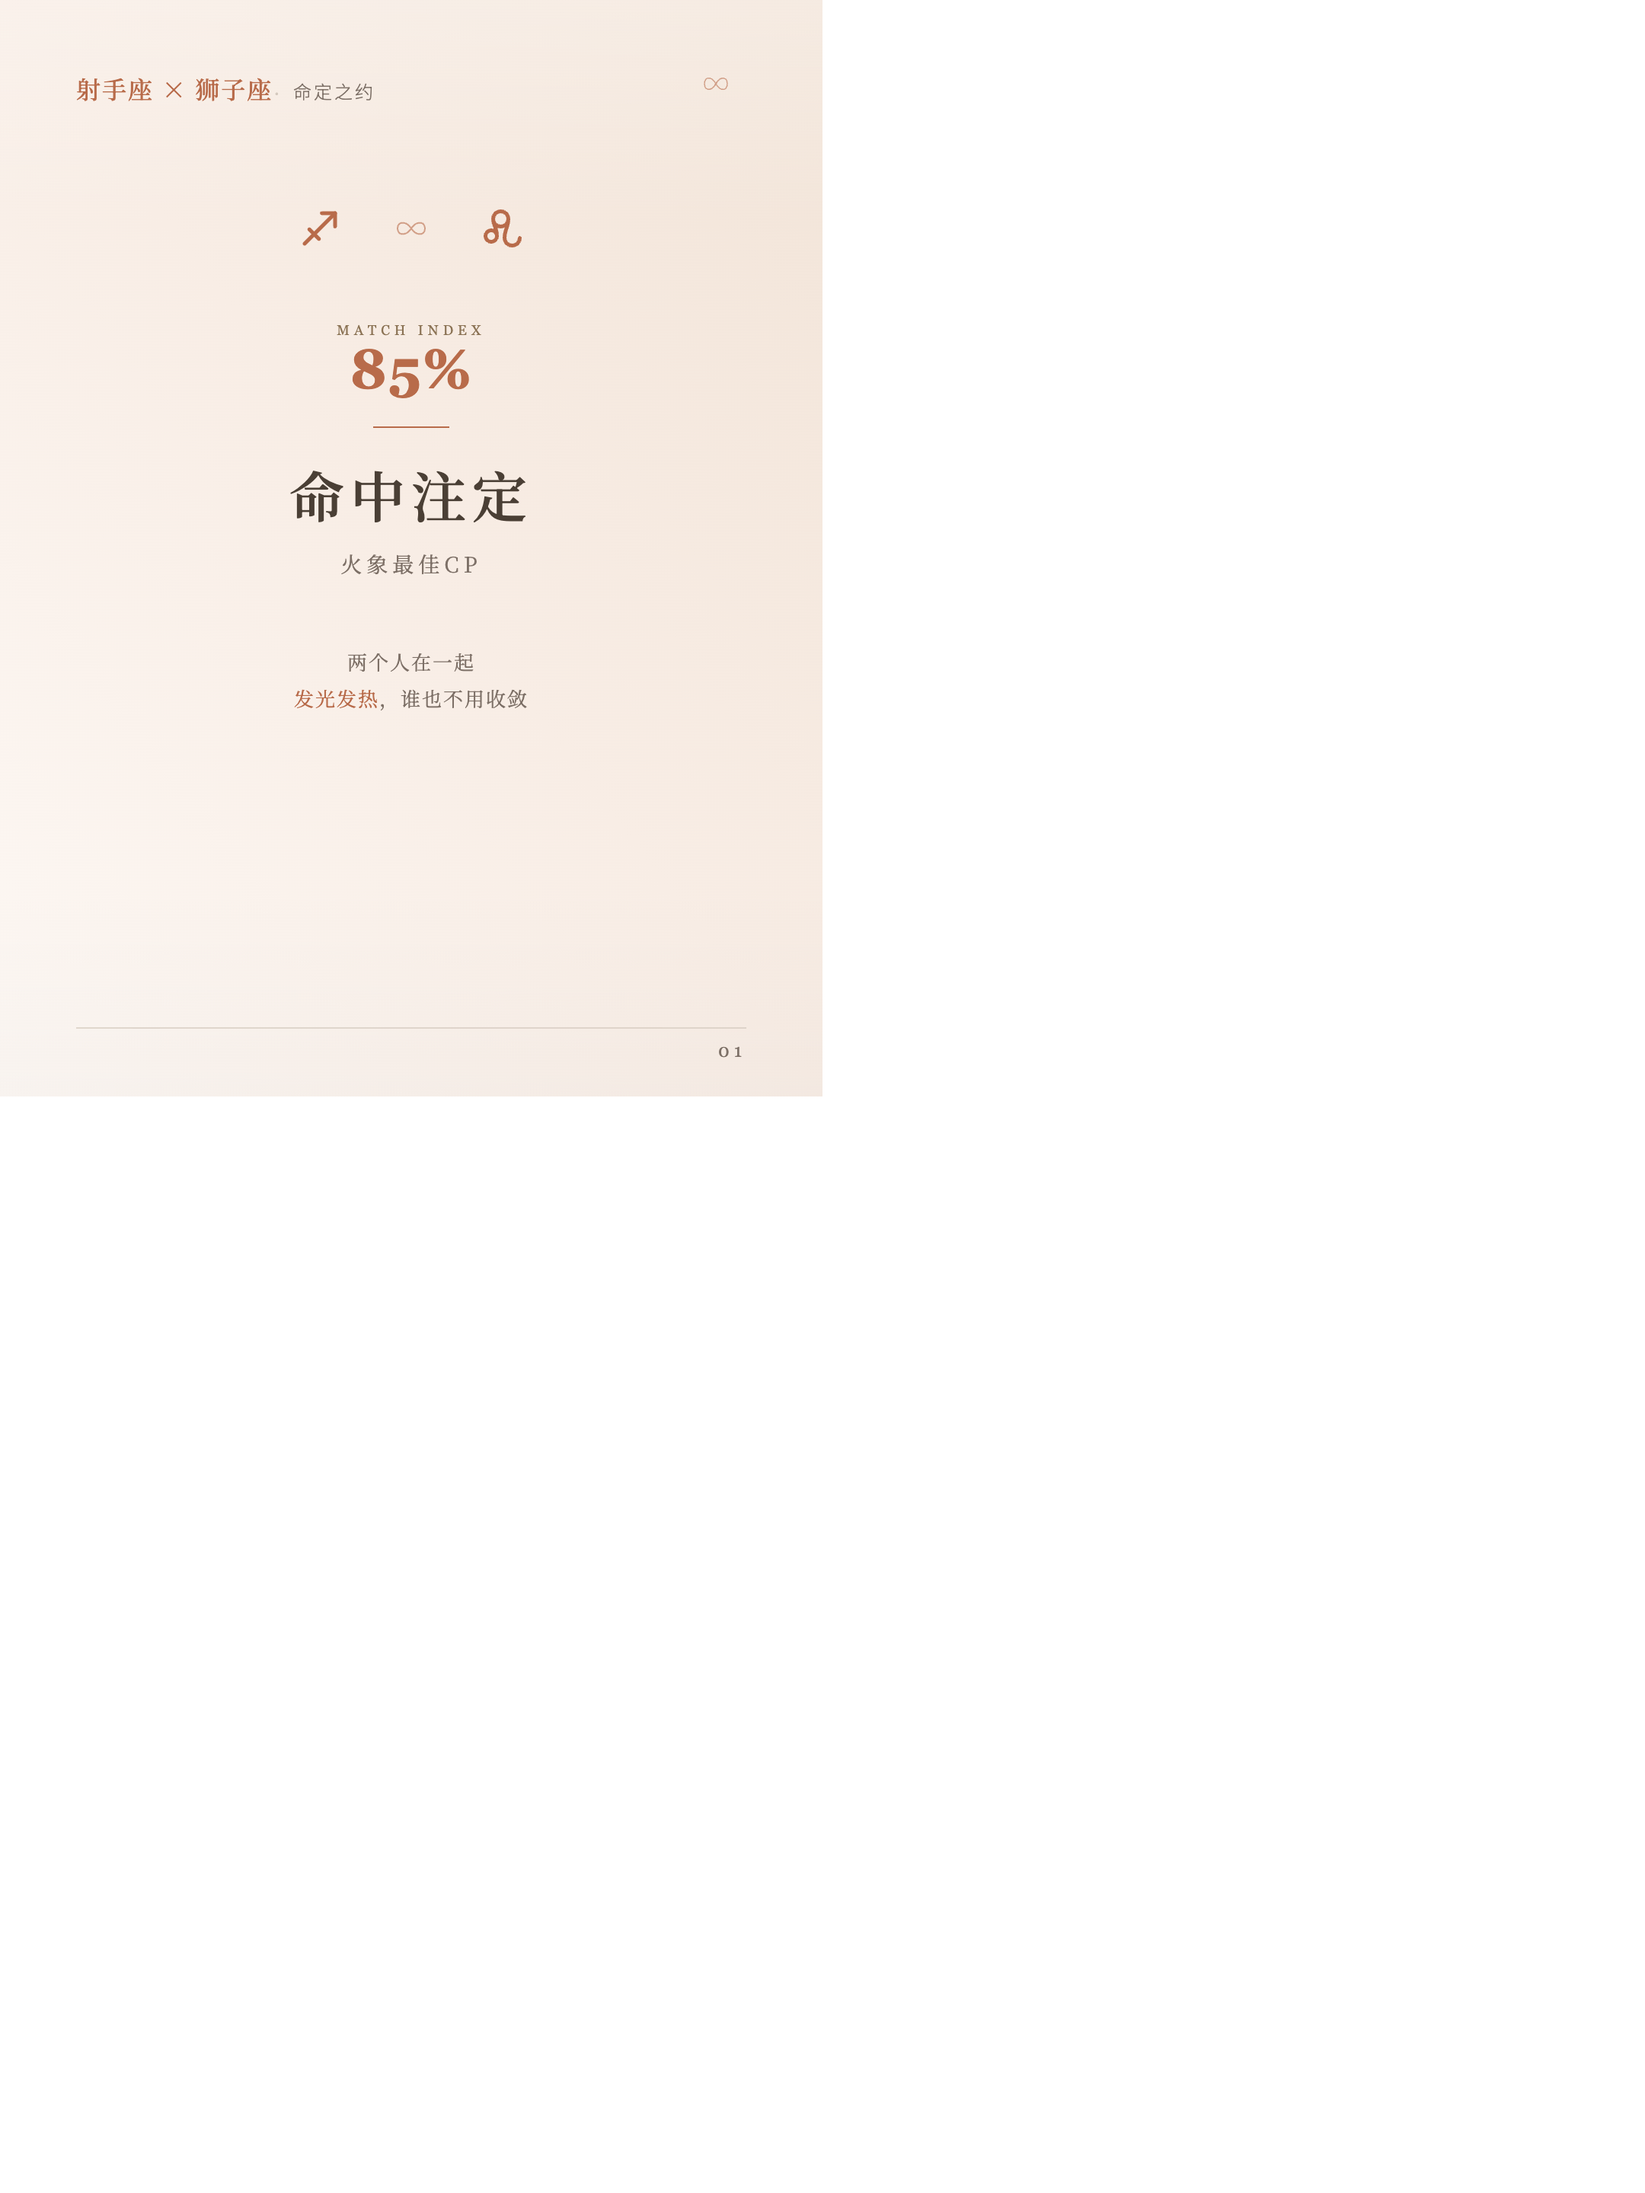
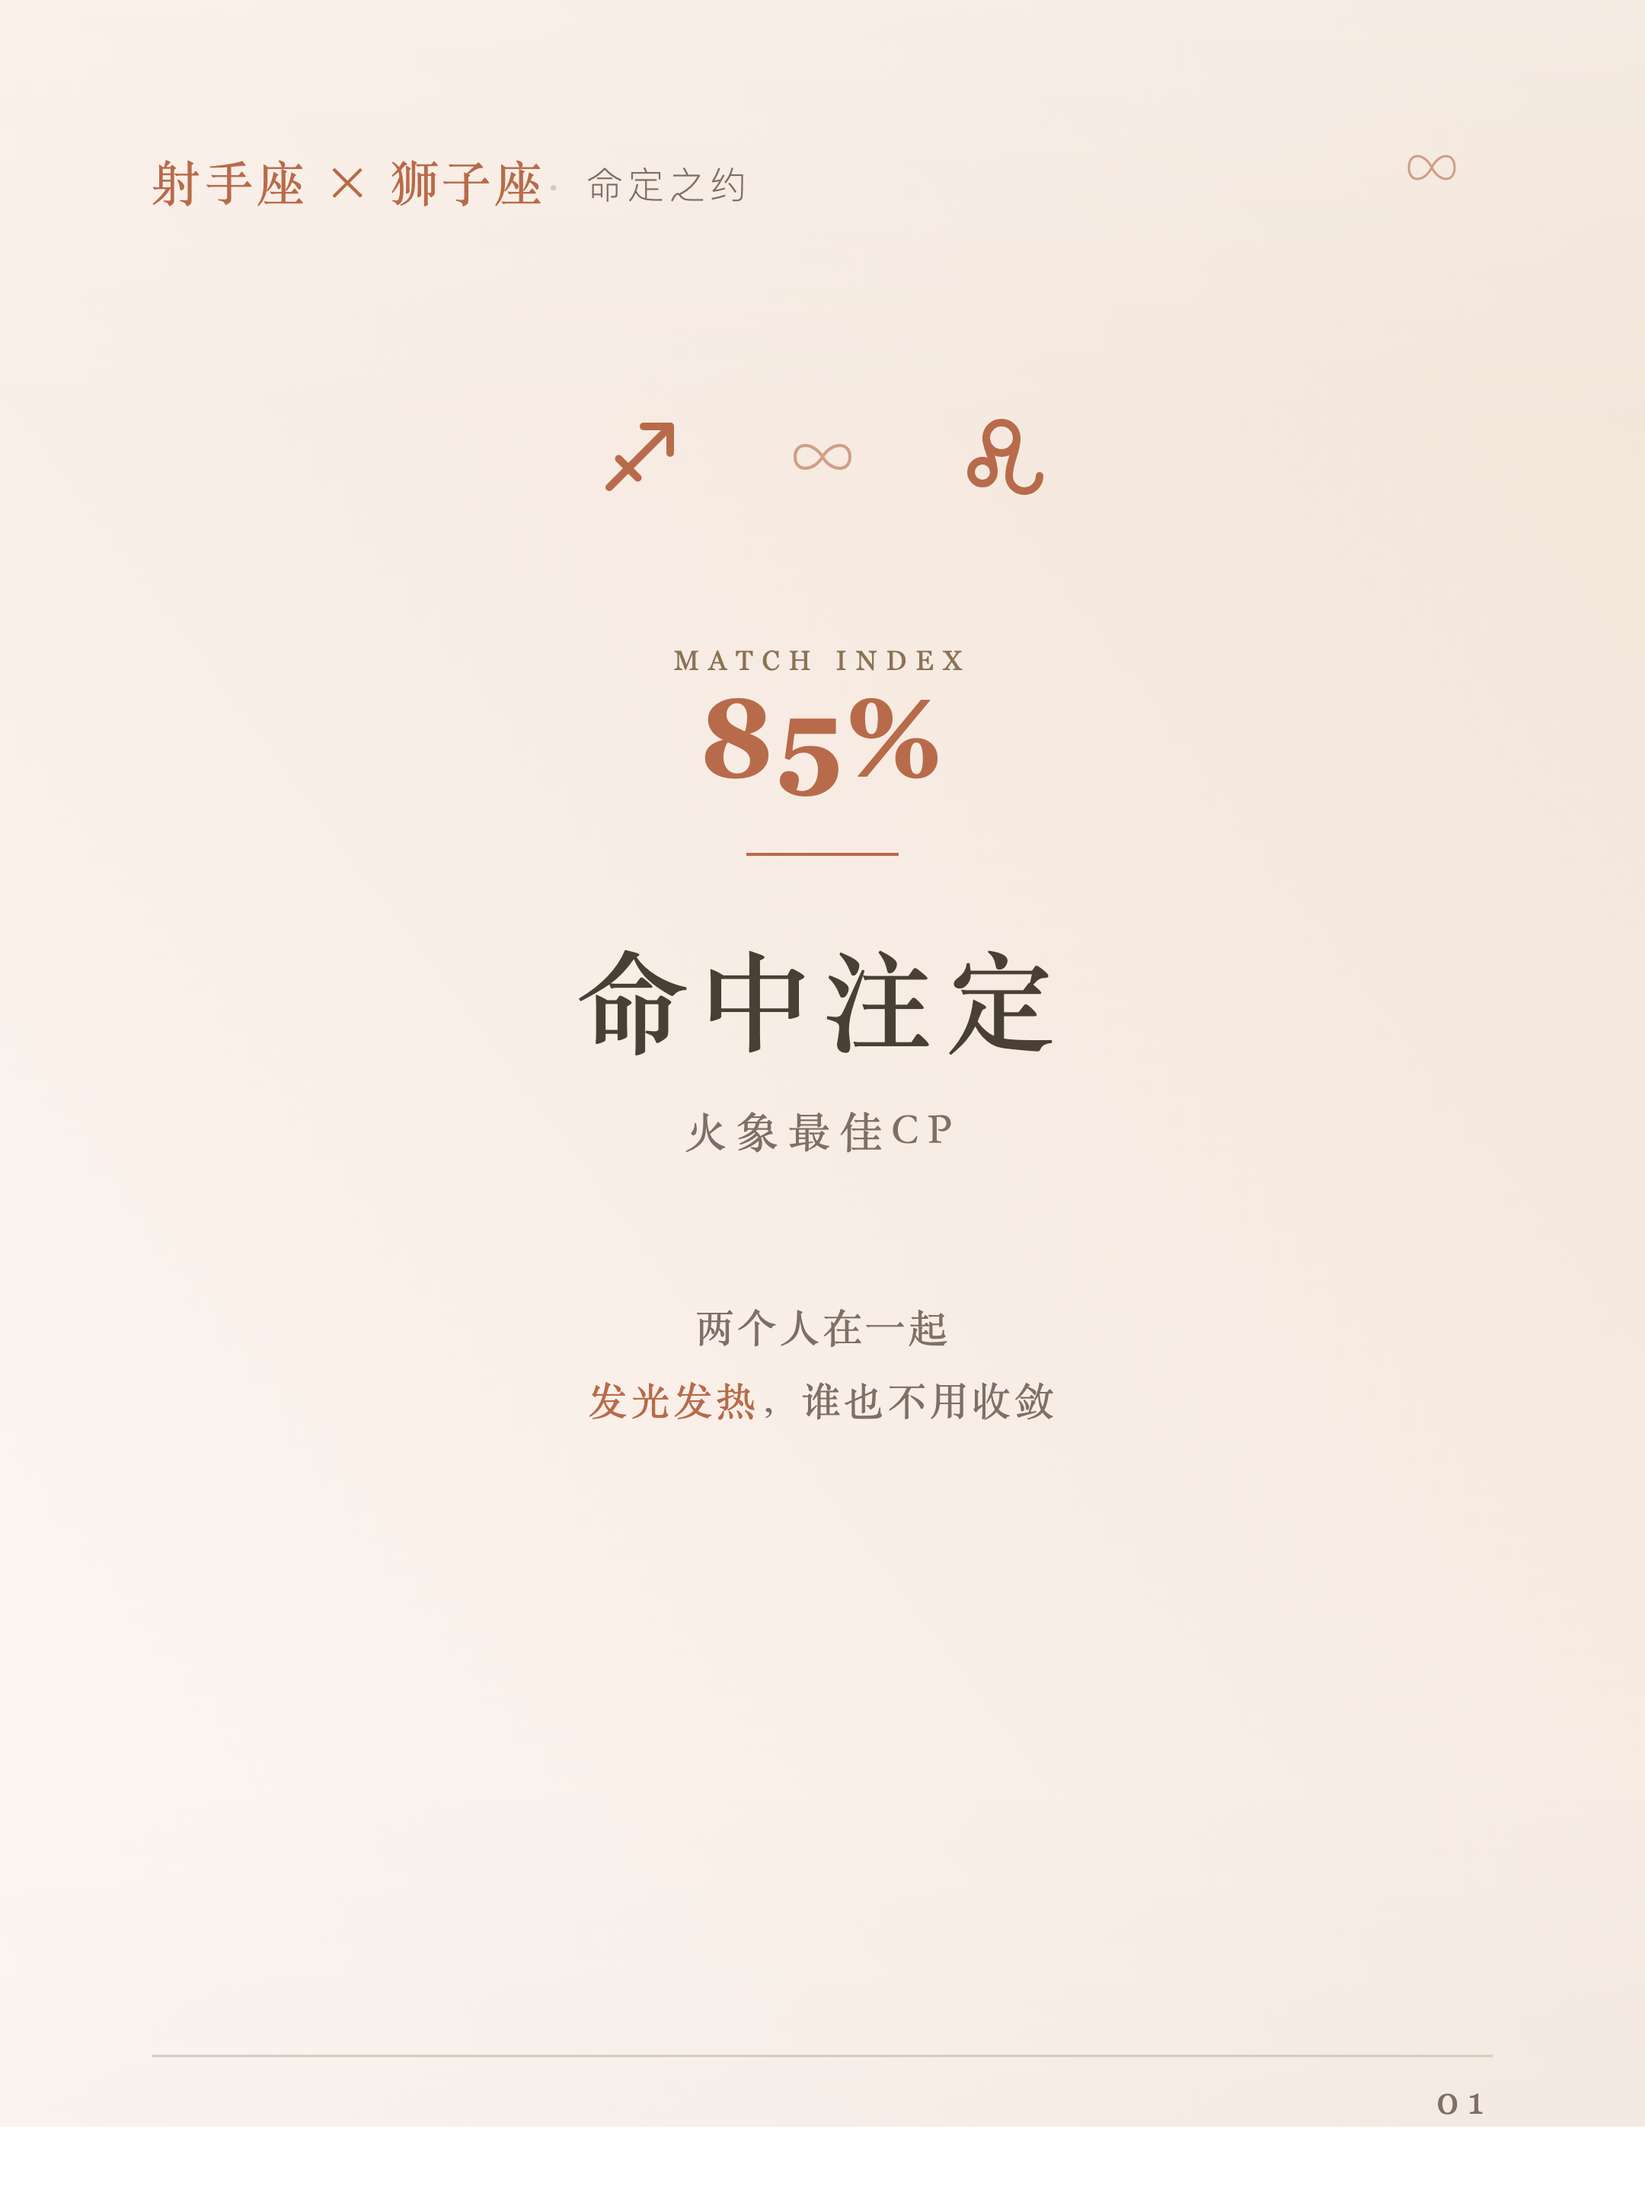
Please continue the conversation from where we left it off without asking the user any further quest
🤖 Auto-backup by Claude Code

diff --git a/skills/zodiac-poster/screenshot_svg.py b/skills/zodiac-poster/screenshot_svg.py
@@ -1,0 +1,118 @@
+#!/usr/bin/env python3
+"""
+SVG 截图脚本 - 将 SVG 转换为 PNG
+使用 HTML 包装器确保 SVG 正确填充整个画布
+"""
+
+import os
+import subprocess
+import tempfile
+
+def create_html_wrapper(svg_path, width=1080, height=1440):
+    """创建 HTML 包装器，确保 SVG 正确填充"""
+    svg_url = f"file://{os.path.abspath(svg_path)}"
+    return f"""<!DOCTYPE html>
+<html>
+<head>
+    <meta charset="UTF-8">
+    <style>
+        * {{ margin: 0; padding: 0; }}
+        html, body {{
+            width: {width}px;
+            height: {height}px;
+            overflow: hidden;
+        }}
+        img {{
+            width: {width}px;
+            height: {height}px;
+            display: block;
+        }}
+    </style>
+</head>
+<body>
+    <img src="{svg_url}" width="{width}" height="{height}">
+</body>
+</html>"""
+
+
+def screenshot_svg(svg_path, output_path, scale=2):
+    """使用 Chrome headless 截图"""
+    width = 1080
+    height = 1440
+
+    # 输出尺寸
+    out_width = width * scale
+    out_height = height * scale
+
+    # 创建临时 HTML 文件，使用输出尺寸
+    html_content = create_html_wrapper(svg_path, out_width, out_height)
+
+    with tempfile.NamedTemporaryFile(mode='w', suffix='.html', delete=False) as f:
+        f.write(html_content)
+        html_path = f.name
+
+    try:
+        # 使用 Chrome headless 截图
+        chrome_paths = [
+            '/Applications/Google Chrome.app/Contents/MacOS/Google Chrome',
+            '/Applications/Chromium.app/Contents/MacOS/Chromium',
+            'google-chrome',
+            'chromium'
+        ]
+
+        chrome_path = None
+        for path in chrome_paths:
+            if os.path.exists(path) or subprocess.run(['which', path], capture_output=True).returncode == 0:
+                chrome_path = path
+                break
+
+        if not chrome_path:
+            raise Exception("Chrome not found")
+
+        # Chrome headless 截图命令 - 不使用 scale factor，直接用目标尺寸
+        cmd = [
+            chrome_path,
+            '--headless',
+            '--disable-gpu',
+            '--no-sandbox',
+            '--disable-software-rasterizer',
+            f'--window-size={out_width},{out_height}',
+            f'--screenshot={output_path}',
+            f'file://{html_path}'
+        ]
+
+        result = subprocess.run(cmd, capture_output=True, text=True, timeout=30)
+
+        if os.path.exists(output_path):
+            print(f"✅ {os.path.basename(output_path)} ({out_width}x{out_height})")
+            return True
+        else:
+            print(f"❌ Failed: {result.stderr}")
+            return False
+
+    finally:
+        os.unlink(html_path)
+
+
+def main():
+    base_dir = os.path.dirname(os.path.abspath(__file__))
+    examples_dir = os.path.join(base_dir, "assets/templates/destined-bond/examples")
+
+    files = ['01_cover', '02_page', '03_end']
+
+    print("📸 开始截图 (3:4 比例, 2x 分辨率)...")
+
+    for name in files:
+        svg_path = os.path.join(examples_dir, f"{name}.svg")
+        png_path = os.path.join(examples_dir, f"{name}.png")
+
+        if os.path.exists(svg_path):
+            screenshot_svg(svg_path, png_path, scale=2)
+        else:
+            print(f"⚠ 未找到: {svg_path}")
+
+    print("✨ 完成!")
+
+
+if __name__ == "__main__":
+    main()
